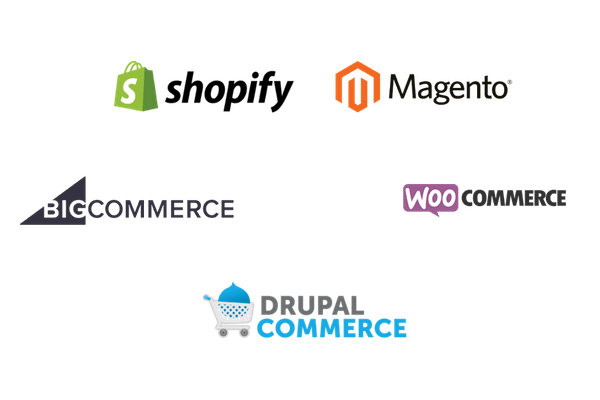
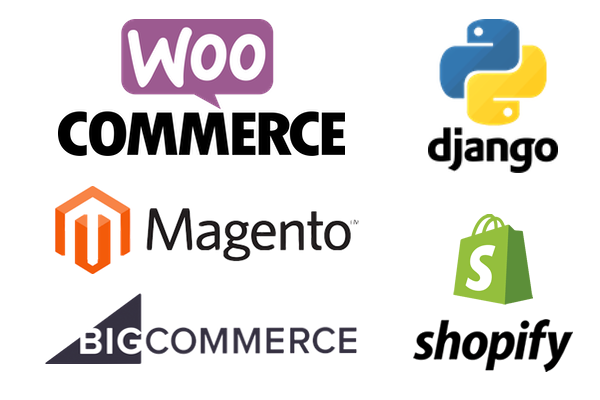
werew
erertert

Changed region(s): [[0.09, 0.03, 0.96, 0.78], [0.06, 0.69, 0.96, 0.93], [0.03, 0.45, 0.6, 0.69]]

diff --git a/lt/e-komercija.html b/lt/e-komercija.html
@@ -125,24 +125,29 @@
 						<li class="d-flex g-mb-10">
 							<li>
 								<li class="d-flex g-mb-10">
-								<i class="icon-arrow-right-circle g-color-primary g-mt-5 g-mr-10"></i>GoLang Ottemo eCommerce.
+								<i class="icon-arrow-right-circle g-color-primary g-mt-5 g-mr-10"></i>WooCommerce.
 							</li>
-								<li>
-									<li class="d-flex g-mb-10">
-									<i class="icon-arrow-right-circle g-color-primary g-mt-5 g-mr-10"></i>WooCommerce.
-								</li>
 								<li>
 									<li class="d-flex g-mb-10">
 									<i class="icon-arrow-right-circle g-color-primary g-mt-5 g-mr-10"></i>Magento.
 								</li>
 								<li>
 									<li class="d-flex g-mb-10">
-									<i class="icon-arrow-right-circle g-color-primary g-mt-5 g-mr-10"></i>Django e-commerce framework.
+									<i class="icon-arrow-right-circle g-color-primary g-mt-5 g-mr-10"></i>Shopify.
+								</li>
+								<li>
+									<li class="d-flex g-mb-10">
+									<i class="icon-arrow-right-circle g-color-primary g-mt-5 g-mr-10"></i>Big-commerce.
+								</li>
+								<li>
+									<li class="d-flex g-mb-10">
+									<i class="icon-arrow-right-circle g-color-primary g-mt-5 g-mr-10"></i>Django e-commerce.
 								</li>
 						</li>
 				</li>
 			</li>
 		</li>
+	</li>
 	</li>
 </ul>
 </div>
@@ -307,7 +312,7 @@
 									<i class="icon-communication-096 u-line-icon-pro"></i>
 								</span>
 								<h3 class="h5 g-color-black g-mb-10">E-parduotuvės Saugumas</h3>
-								<p class="g-color-gray-dark-v4 g-mb-20">Padidinsime Jūsų e-parduotuvės saugumą įsidiegdami SSL sertifikatą ir mokėjimo kortelių pramonės reikalavimus. Užtikrinsime maksimalų saugumą nuo įsilaužimų.<br>Užtikrinsime bendrą asmens duomenų apsaugą.<br></p>
+								<p class="g-color-gray-dark-v4 g-mb-20">Vienas svarbiausių dalykų šiomis dienoms yra SAUGUMAS! įsidiegsime SSL sertifikatą ir mokėjimo kortelių pramonės reikalavimus. Užtikrinsime maksimalų saugumą nuo įsilaužimų ir bendrą asmens duomenų apsaugą.<br></p>
 							</div>
 							<!-- End Icon Blocks -->
 						</div>

diff --git a/lt/index.html b/lt/index.html
@@ -302,8 +302,8 @@
       <div class="col-md-5">
         <div class="mb-4">
           <h2 class="h2 g-font-weight-400 g-mb-30">Jūs radote tinkamą sprendimą.</h2>
-          <p>Jaučiamės esą šiek tiek kosmonautai veteranai, nes per 24 metus sukaupėme geriausią patirtį, kuria norime pasidalinti su Jumis kuriant Mobile-First integruotus projektus, apimančius skirtingus skaitmeninės reklamos kanalus ir taktikas.<br>
-            <br>Mūsų tikslas – kad jūsų idėja elektroniniam sprendimui taptų realybe ir padėtų siekti norimų rezultatų kuo greičiau.<br><br>Nesvarbu, ar esate gerai žinomas verslas ar tik pradedate veiklą, mes padėsime Jūsų verslui sustiprėti, pradedant startuoliais ir baigiant verslo titanais.</p>
+          <p>Jaučiamės esą šiek tiek kosmonautai veteranai, nes per 24 metus sukaupėme geriausią patirtį, kuria norime pasidalinti su Jumis kuriant Mobile-First integruotus projektus.</p>
+            <p>Nesvarbu, ar esate gerai žinomas verslas ar tik pradedate veiklą, mes padėsime Jūsų verslui sustiprėti, pradedant startuoliais ir baigiant verslo titanais. Mūsų tikslas – kad Jūsų idėja elektroniniam sprendimui taptų realybe.</p>
         </div>
       </div>
     </div>
